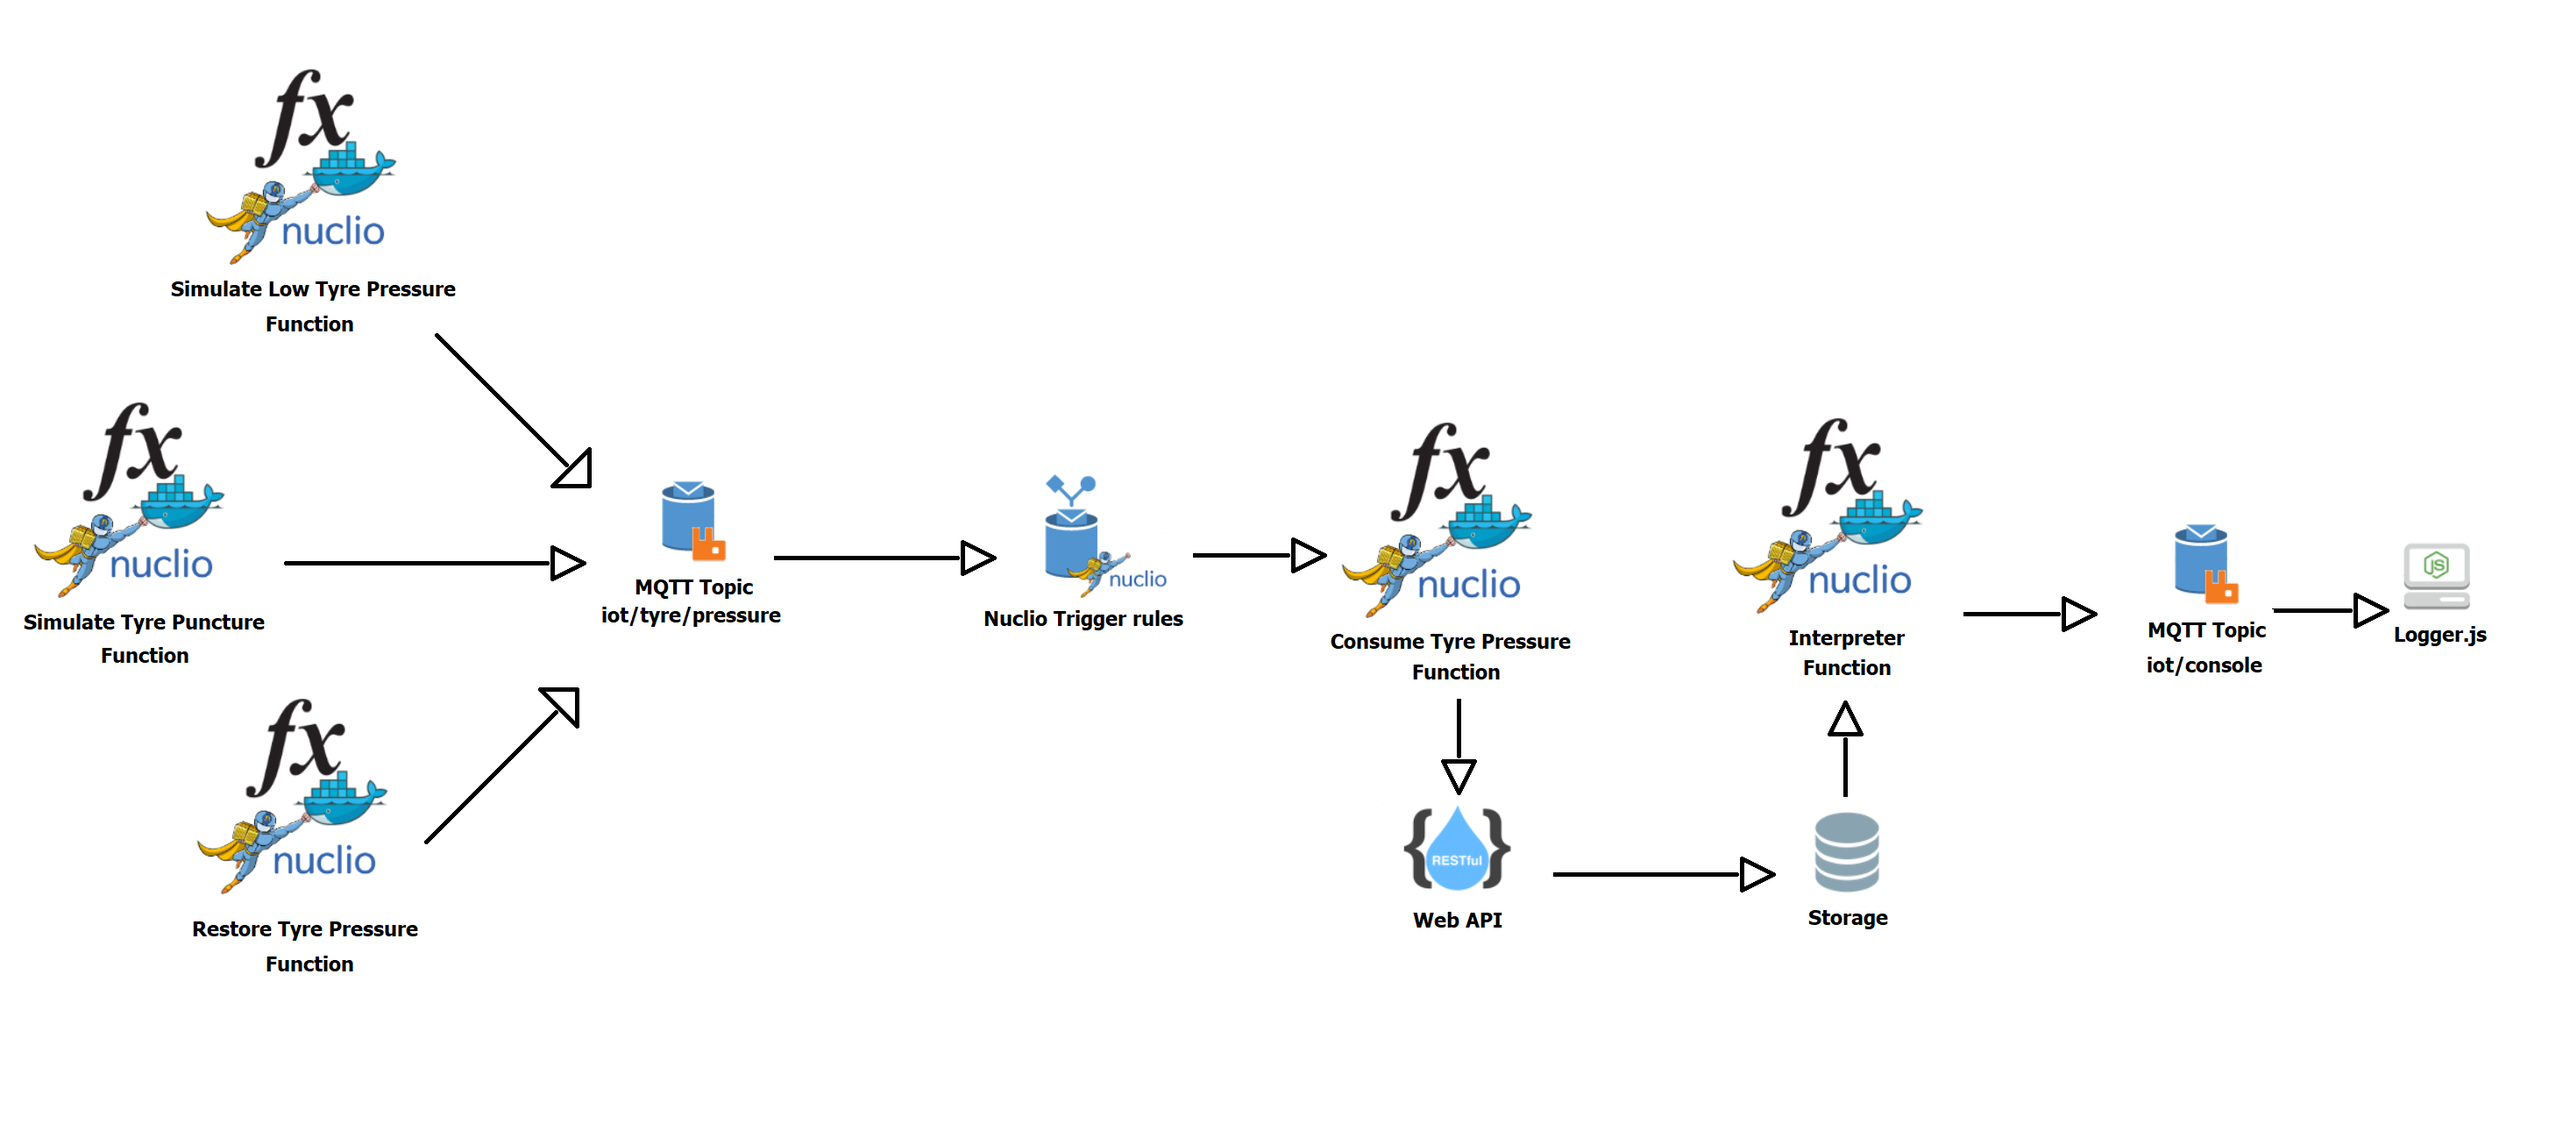
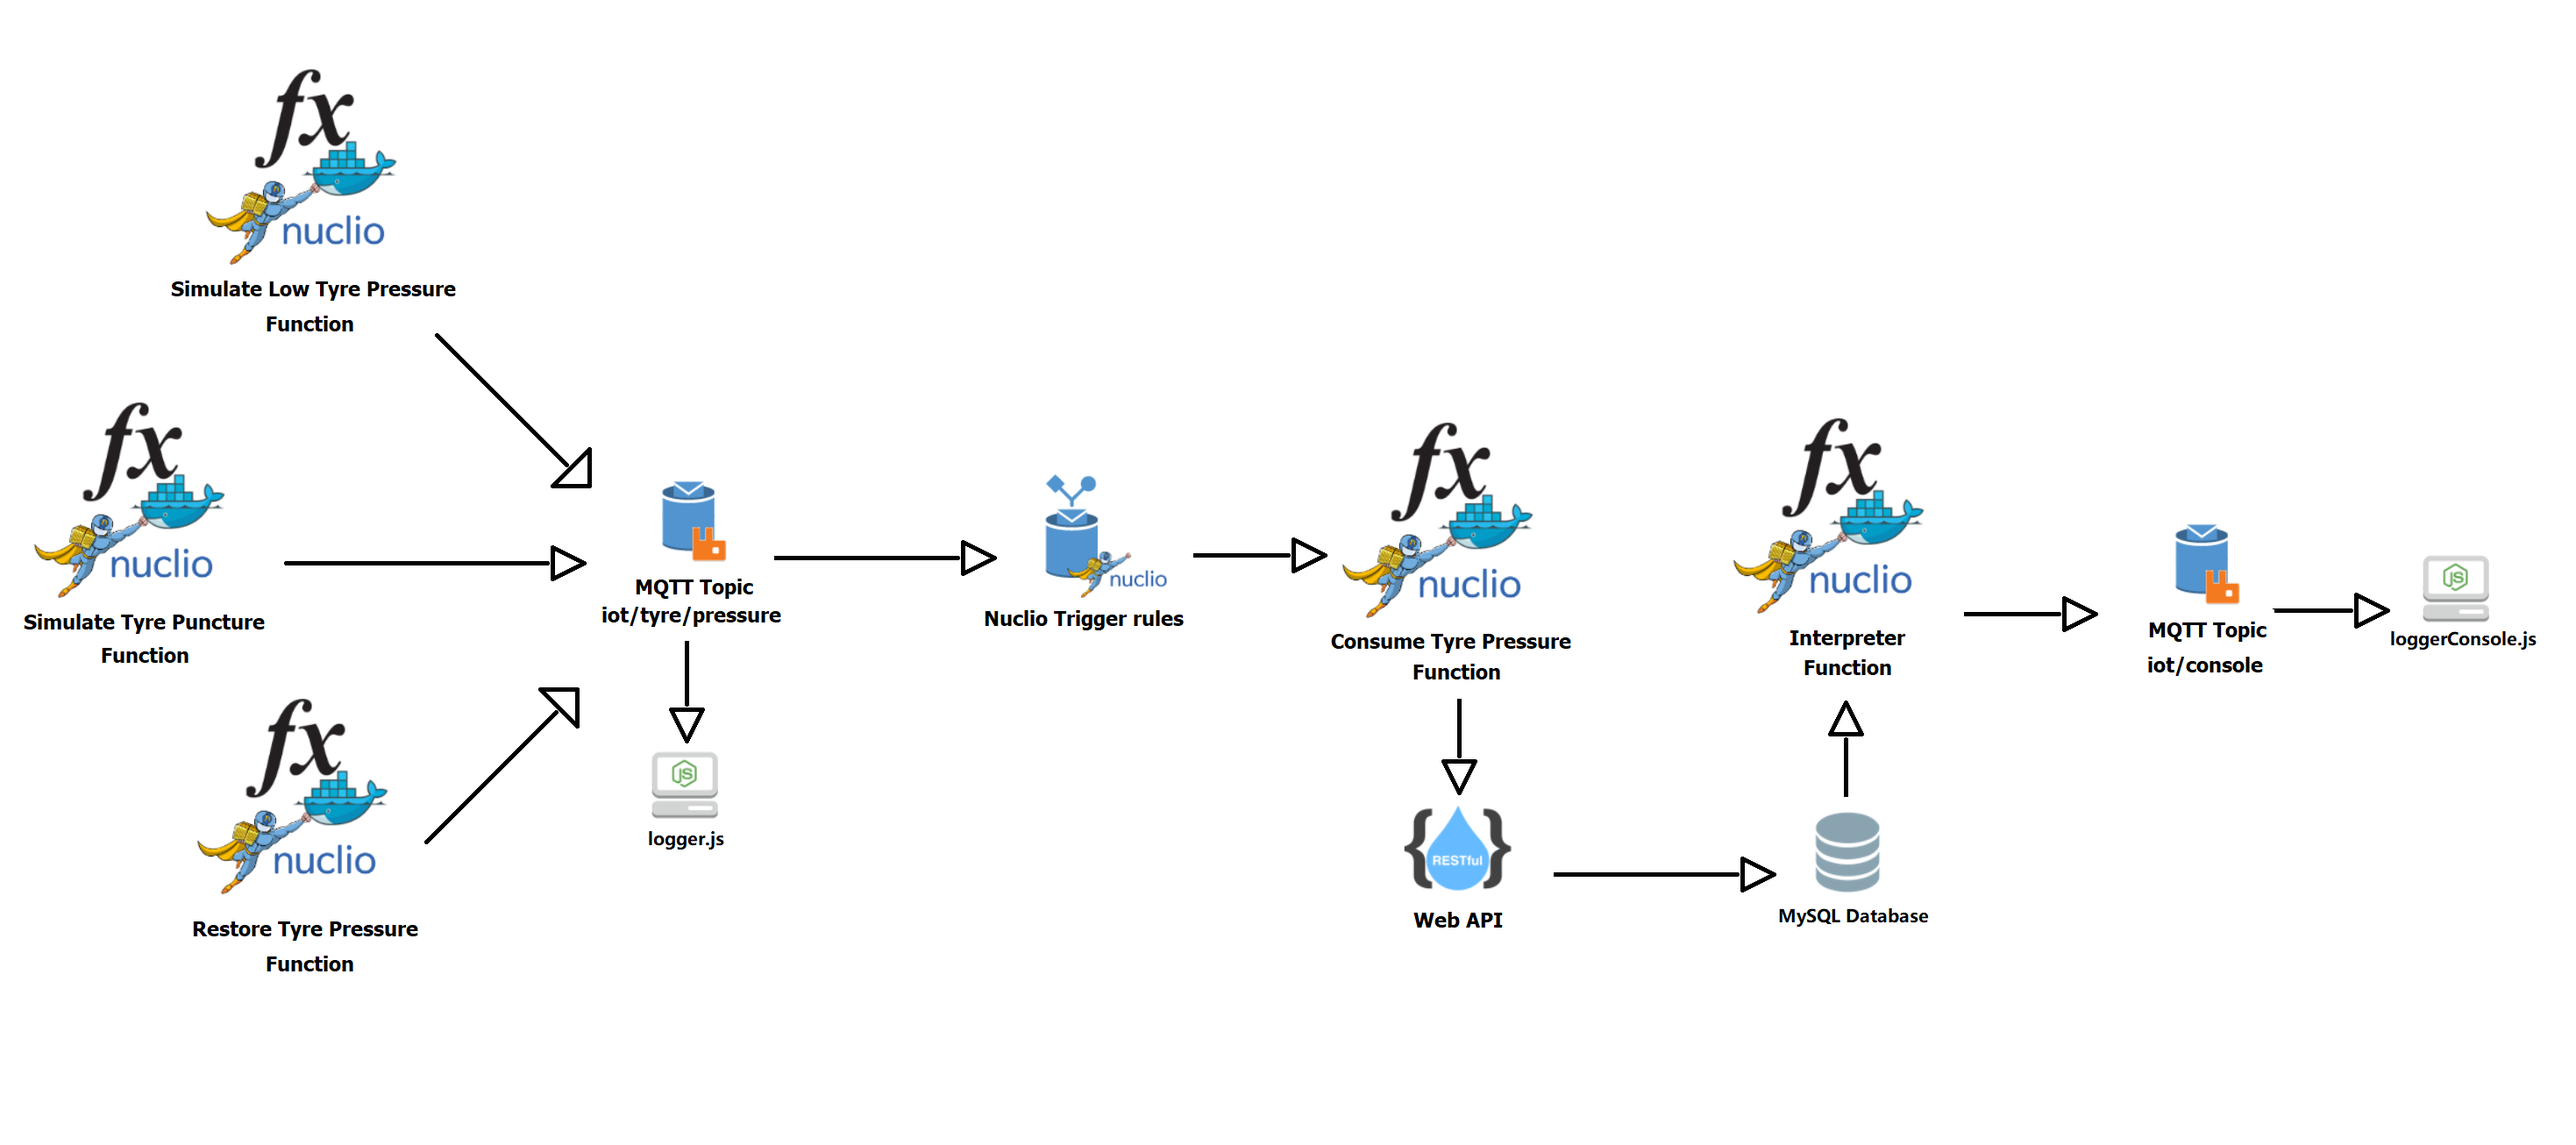
Added README.md

diff --git a/README.md b/README.md
@@ -1,0 +1,123 @@
+# SCIoT Project
+
+**Project name**: Tyre Pressure Detection
+<br>
+**Student name**: Michele Delli Paoli
+<br>
+**Student ID**: 0522500797
+<br>
+<br>
+
+### Description
+
+
+
+##### 1) Application Goal
+The system allows to monitor the pressure of a car's tyre, in order to alert the driver:
+* in case a tyre puncture occurs;
+* just to report low tyre pressure.
+
+<br>
+
+##### 2) Scenario
+The system elaborates data recorded by a simulated sensor and sends back to the console a specific message, which will be:
+1. "**Low tyre pressure registered!**": if the recorded pressure is lower than the standard one;
+2. "**Tyre pressure restored!**": if the sensor records a pressure greater or equals than the standard one, while the previously recorded pressure was lower than the standard one.
+3. "**Optimal tyre pressure!**": if the sensor records a pressure greater or equals than the standard one, and the previously recorded pressure was greater or equals than the standard one too.
+4. "**Warning, possible tyre puncture!**": if the sensor records a continuous drop in pressure during a small period of time. <br>
+More specifically, to simulate a tyre puncture, we will suppose to record **5 tyre pressure decreasing values** in a period of time of **1 minute**.
+
+<br>
+
+##### 3) Architecture
+The system is composed by several functions in Node.js, two loggers and a MySQL Databse.
+<br>
+
+###### Functions:
+* **Simulate Low Tyre Pressure**: it simulates a **drop** in tyre pressure by sending a message to the topic "iot/tyre/pressure" with a pressure value **lower** than the standard one.
+
+
+* **Simulate Tyre Puncture**: it simulates a **puncture** by sending **5 decreasing pressure messages** to the topic "iot/tyre/pressure".<br>
+Note: each of these 5 pressure value is lower than the one recorded before and always lower than the standard value one.
+
+* **Restore Tyre Pressure**: it simulates the act of **inflating** the tyre by sending a message to the topic "iot/tyre/pressure" with a pressure value **greater or equals** than the standard one.
+
+
+* **Consume Tyre Pressure**: it is triggered by an incoming message on the topic  "iot/tyre/pressure", and **insert** into a Relational Database a record composed by the **pressure value** and the associated **timestamp**.
+
+
+* **Interpreter**: a function which **retrieves** the **last 5 records** from Database and **interprets** the **data**:
+
+    1. if these 5 timestamps **fit** into a period of time of **1 minute** and the corresponding pressure values are **sorted** in **decreasing order**, then the function will send a message to the topic "iot/console" reporting: "**Warning, possible tyre puncture!**"; 
+    2. if these timestamps **don't fit** into a period of time of **1 minute**, or **only** the **last pressure value** is **lower** than the standard one, then the function will send a message to the topic "iot/console" reporting: "**Low tyre pressure registered!**";
+    3. if the **last pressure value** is **greater** or **equals** to the **standard one**, while the second-last pressure value is lower than the standard one, the function will send a message to topic "iot/console" reporting: "**Tyre pressure restored!**".
+<br>
+
+###### Loggers:
+* **logger.js**: it logs incoming messages on the topic "**iot/tyre/pressure**".
+
+* **loggerConsole.js**: it logs incoming messages on the topic "**iot/console**".
+<br>
+
+###### MySQL Database:
+* **MySQL Instance**: a single Table which is composed by three columns: **id**, **pressure**, **timestamp**.
+
+<br>
+
+![](SchemeProject.png)
+*Figure 1: System Architecture.*
+
+<br>
+<br>
+
+##### 4) Setup Components
+To run the system, you must install the following components:
+
+* **Docker**: it is a Container Orchestration platform which allows you to deploy and run portable applications with ease.
+
+* **Docker Compose**: it is a tool useful to configure the components of a  Microservices Architecture by using a single YAML file.
+
+* **Nuclio**: executed on a Container, it enables you to **run a function** when an event is triggered.
+More specifically, Nuclio creates a Container in which it deploys each function.
+
+* **RabbitMQ**: executed on Container, it is a **Message broker** useful to post messages on topics. It uses either MQTT and AMQP protocol.
+
+<br>
+<br>
+
+##### 5) Building the system by using Docker
+1. Run Nuclio on Docker by executing the following command:
+ ```shell
+        docker run -p 8070:8070 -v /var/run/docker.sock:/var/run/docker.sock -v /tmp:/tmp nuclio/dashboard:stable-amd64
+```
+2. Run RabbitMQ on Docker by executing the following command:
+ ```shell
+        docker run -p 9000:15672 -p 1883:1883 -p 5672:5672 cyrilix/rabbitmq-mqtt
+```
+3. Open your Browser and type into the Address bar the following URL to visualize the Nuclio Dashboard:
+```shell
+        localhost:8070
+```
+4. Check your local IP Address by executing the following command (only on Linux):
+```shell
+        hostname -I
+```
+
+<br>
+
+5. On the Nuclio Dashboard, click on "Create project" button.
+6. Create the "Simulate Low Tyre Pressure" function by importing the ***mqtt_simulate_low_tyre_pressure*** YAML file.
+
+7. Edit the "Simulate Low Tyre Pressure" function by replacing the [localIpAddress] parameter with your local IP Address in the following:
+```shell
+    Line of code:
+        amqp.connect('amqp://guest:guest@[localIpAddress]:5672').then(function(conn) {
+
+
+    In Triggers configuration:
+        guest:guest@[localIpAddress]:1883
+```
+
+8. Click the "Deploy" button to deploy the function.
+
+
